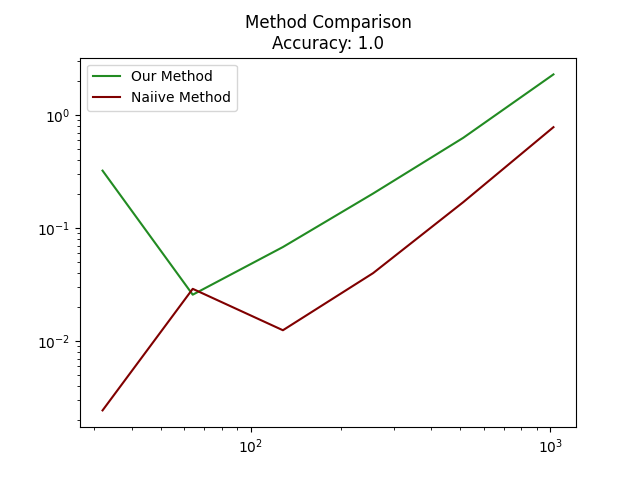
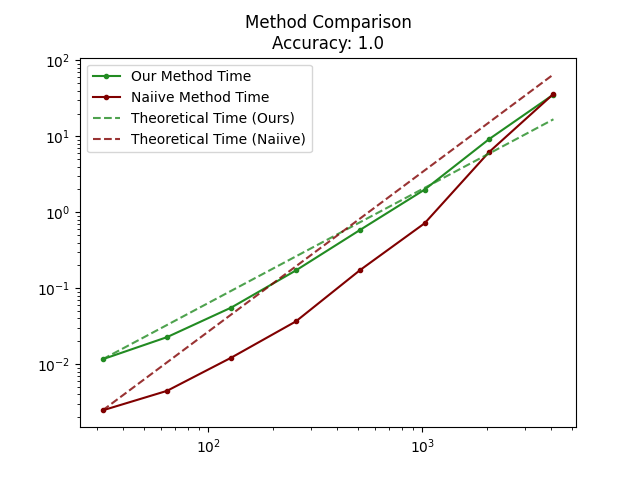
pushing what's needed for supercomputer

diff --git a/speed_test.py b/speed_test.py
@@ -7,28 +7,35 @@ from collections import Counter
 import numpy as np
 from matplotlib import pyplot as plt
 from tqdm import tqdm
+import pickle
 #import profile
 #import pstats
-from importlib import reload
 
 def create_berthas(top_power2=13):
     print("Creating Graphs")
     #sizes = list(set([int(2**i) for i in np.linspace(1,14,100)]))
     sizes = 2**np.arange(5,top_power2+1)
     prog = tqdm(sizes,total = len(sizes))
-    berthas = {}
+    with open("bertha_storage.pkl",'rb') as infile:
+        berthas = pickle.load(infile)
 
-    for i in prog:
-        
+    for n in prog:
+        if n in berthas.keys():
+            print(f"Already created for size {n}")
+            prog.update()
+            continue
         try:
-            G = graphs.GenBertha(i)
-            berthas[i] = G
+            print(f"Generating for size {n}")
+            G = graphs.GenBertha(n)
+            berthas[n] = G
         except:
-            print(f"failed for size {i}")
+            print(f"failed for size {n}")
         prog.update()
+    with open("bertha_storage.pkl","wb") as outfile:
+        pickle.dump(berthas,outfile)
     return berthas,sizes
 
-def DuelOfMethods(bertha,verbose=False):
+def DuelOfMethods(bertha,verbose=False,fake_parallel=False):
     """compares networkx's normal eigenvalue catching method to our method
     PARAMETERS:
         size (int): how big of graph you want to compare with
@@ -45,7 +52,7 @@ def DuelOfMethods(bertha,verbose=False):
     
     # our method
     start = pc()
-    our_spec = ep_utils.GetSpectrumFromLEPs(bertha,verbose=verbose)
+    our_spec = ep_utils.GetSpectrumFromLEPs(bertha,verbose=verbose,fake_parallel=fake_parallel)
     end = pc()
     our_time = end-start
 
@@ -55,12 +62,36 @@ def DuelOfMethods(bertha,verbose=False):
     
     return our_time, their_time, accurate
 
-def test_speed(bertha_dict,sizes):
+def test_speed(bertha_dict,sizes,fake_parallel=False):
+    # get times if already recorded for certain sizes
+    if 'times.pkl' in os.listdir():
+        print("loading previously calculated times...")
+        try:
+            with open('times.pkl','rb') as infile:
+                time_dict = pickle.load(infile)
+                our_times = time_dict['us']
+                their_times = time_dict['them']
+                sizes_to_skip = time_dict['sizes']
+                acc_count = [1.0]*len(our_times)
+        except:
+            our_times = []
+            their_times = []
+            sizes_to_skip = []
+            acc_count = [] 
+    else:
+        our_times = []
+        their_times = []
+        sizes_to_skip = []
+        acc_count = []
 
-    our_times = []
-    their_times = []
-    acc_count = []
-
+    # eliminate sizes we already have times for
+    print(f"We already have times recorded for sizes: {sizes_to_skip}")
+    sizes = list(set(sizes) - set(sizes_to_skip))
+    if sizes == []:
+        print("no times for new sizes requested.")
+        return our_times, their_times, acc_count
+    else:
+        print(f"Testing speed for n = {sizes}")
     progress_bar = tqdm(sizes,total=len(sizes))
 
     for size in progress_bar:
@@ -68,7 +99,7 @@ def test_speed(bertha_dict,sizes):
         us, them, peter, acc = 0, 0, 0, 0
         iters = 2
         for i in range(iters):
-            us_i, them_i, acc_i = DuelOfMethods(bertha_dict[size])
+            us_i, them_i, acc_i = DuelOfMethods(bertha_dict[size],fake_parallel=fake_parallel)
             us, them, acc = us+us_i, them+them_i, acc+acc_i
         us, them, acc = us/iters, them/iters, acc/iters
         our_times.append(us)
@@ -76,11 +107,21 @@ def test_speed(bertha_dict,sizes):
         acc_count.append(acc)
         progress_bar.update()
 
+    # save the new recorded times
+    with open('times.pkl','wb') as out:
+        time_dict = dict(zip(['us','them','sizes'],[our_times,their_times,sizes_to_skip+sizes]))
+        pickle.dump(time_dict,out)
+    # save times recorded
     return our_times, their_times, acc_count
 
 def plot_result(our_times,their_times,acc_count,sizes,fname="speed_comp.png"):
-    plt.loglog(list(sizes),our_times,'-',color='forestgreen',label="Our Method")
-    plt.loglog(list(sizes),their_times,'-',color='maroon',label='Naiive Method')
+    sizes = np.array(list(sizes))
+    naive = lambda x: x**(2.1) * (their_times[0]/(sizes[0]**(2.1)))
+    optimized = lambda x: x**(3/2) * (our_times[0]/(sizes[0]**(3/2)))
+    plt.loglog(sizes,our_times,'.-',color='forestgreen',label="Our Method Time")
+    plt.loglog(sizes,their_times,'.-',color='maroon',label='Naiive Method Time')
+    plt.loglog(sizes,optimized(sizes),'--',color='forestgreen',label="Theoretical Time (Ours)",alpha=.8)
+    plt.loglog(sizes,naive(sizes),'--',color='maroon',label='Theoretical Time (Naiive)',alpha=.8)
     #plt.loglog(sizes,p(size_list),'-',color='midnightblue',label='Polynomial Regression (squared)')
     #plt.loglog(sizes,p1(size_list),'-',color='chartreuse',label='Their Polynomial Regression (cubed)')
 
@@ -90,11 +131,20 @@ def plot_result(our_times,their_times,acc_count,sizes,fname="speed_comp.png"):
     plt.show()
 
 if __name__ == "__main__":
+    fake_parallel = False
+    try:
+        sys.argv[1]
+        print("Conducting fake parallelized Speed Test")
+        fake_parallel = True
+    except:
+        print("Conducting normal Speed Test")
+    # get parameters of test
     graph_fname = input("Input the name of the speed test file to be saved (default: 'speed_comp.png): ")
     if graph_fname == '': graph_fname = 'speed_comp.png'       
     top_power2 = input("Input the highest power of 2 to go to when generating Bertha's sizes (default: 13): ")
     if top_power2 == '': top_power2 = 13
     else: top_power2 = int(top_power2)
+    # conduct test
     berthas, sizes = create_berthas(top_power2)
     us,them,acc = test_speed(berthas,sizes)
-    plot_result(us,them,acc,sizes)
+    plot_result(us,them,acc,sizes,fname=graph_fname)

diff --git a/ep_utils.py b/ep_utils.py
@@ -369,7 +369,7 @@ def getTransceivingEP2(G: nx.Graph | nx.DiGraph) -> dict[int, set[int]]:
         # if graph is undirected, the transceiving equitable partition is the same as the transmitting
         return ep, N
 
-def getEquitablePartitions(G, progress_bars = True, ret_adj_dict = False, rev = False):
+def getEquitablePartitions(G, progress_bars = True, ret_adj_dict = False, rev = False,plot_graph=True):
     """Finds the coarsest equitable partition and local equitable partitions of a graph.
    
     ARGUMENTS:
@@ -395,6 +395,8 @@ def getEquitablePartitions(G, progress_bars = True, ret_adj_dict = False, rev = 
     if ret_adj_dict:
         # this may no longer be applicable with a tranceiving equitable partition
         return ep, leps, {node: N[node].successors for node in N}
+    if plot_graph:
+        plotEquitablePartition(G,ep)
     return ep, leps
 
 def getEquitablePartitionsFromFile(file_path, num_nodes=None, delim=',', comments='#', directed=False, progress_bars=True, ret_adj_dict=False, rev=False):
@@ -493,14 +495,18 @@ def __getEPStats(set_list):
 def printWithLabel(label, delim, item, file=sys.stdout):
     print("{}\n{}\n{}\n".format(label, delim * len(label), item), file=file)
 
-def GetSpectrumFromLEPs(G,progress_bars=False,verbose=False):
+def GetSpectrumFromLEPs(G,progress_bars=False,verbose=False,fake_parallel=False):
     """Gets the spectrum of a graph using the decomposition by leps method"""
     total_spec = []
     div_specs = []
 
     ep_dict, lep_dict = getEquitablePartitions(G,progress_bars = progress_bars)
+    
 
-    for i, lep in enumerate(list(lep_dict)): # cycle through each lep                         ## COMPLEXITY: L, times for leps
+    if fake_parallel:lep_list = list(lep_dict[0])
+    else: lep_list = list(lep_dict)
+
+    for i, lep in enumerate(lep_list): # cycle through each lep                         ## COMPLEXITY: L, times for leps
         if i%1000==0:
             if verbose: print(f"{i} out of {len(list(lep_dict))}")
         node_list = []   # place to get all nodes in lep
